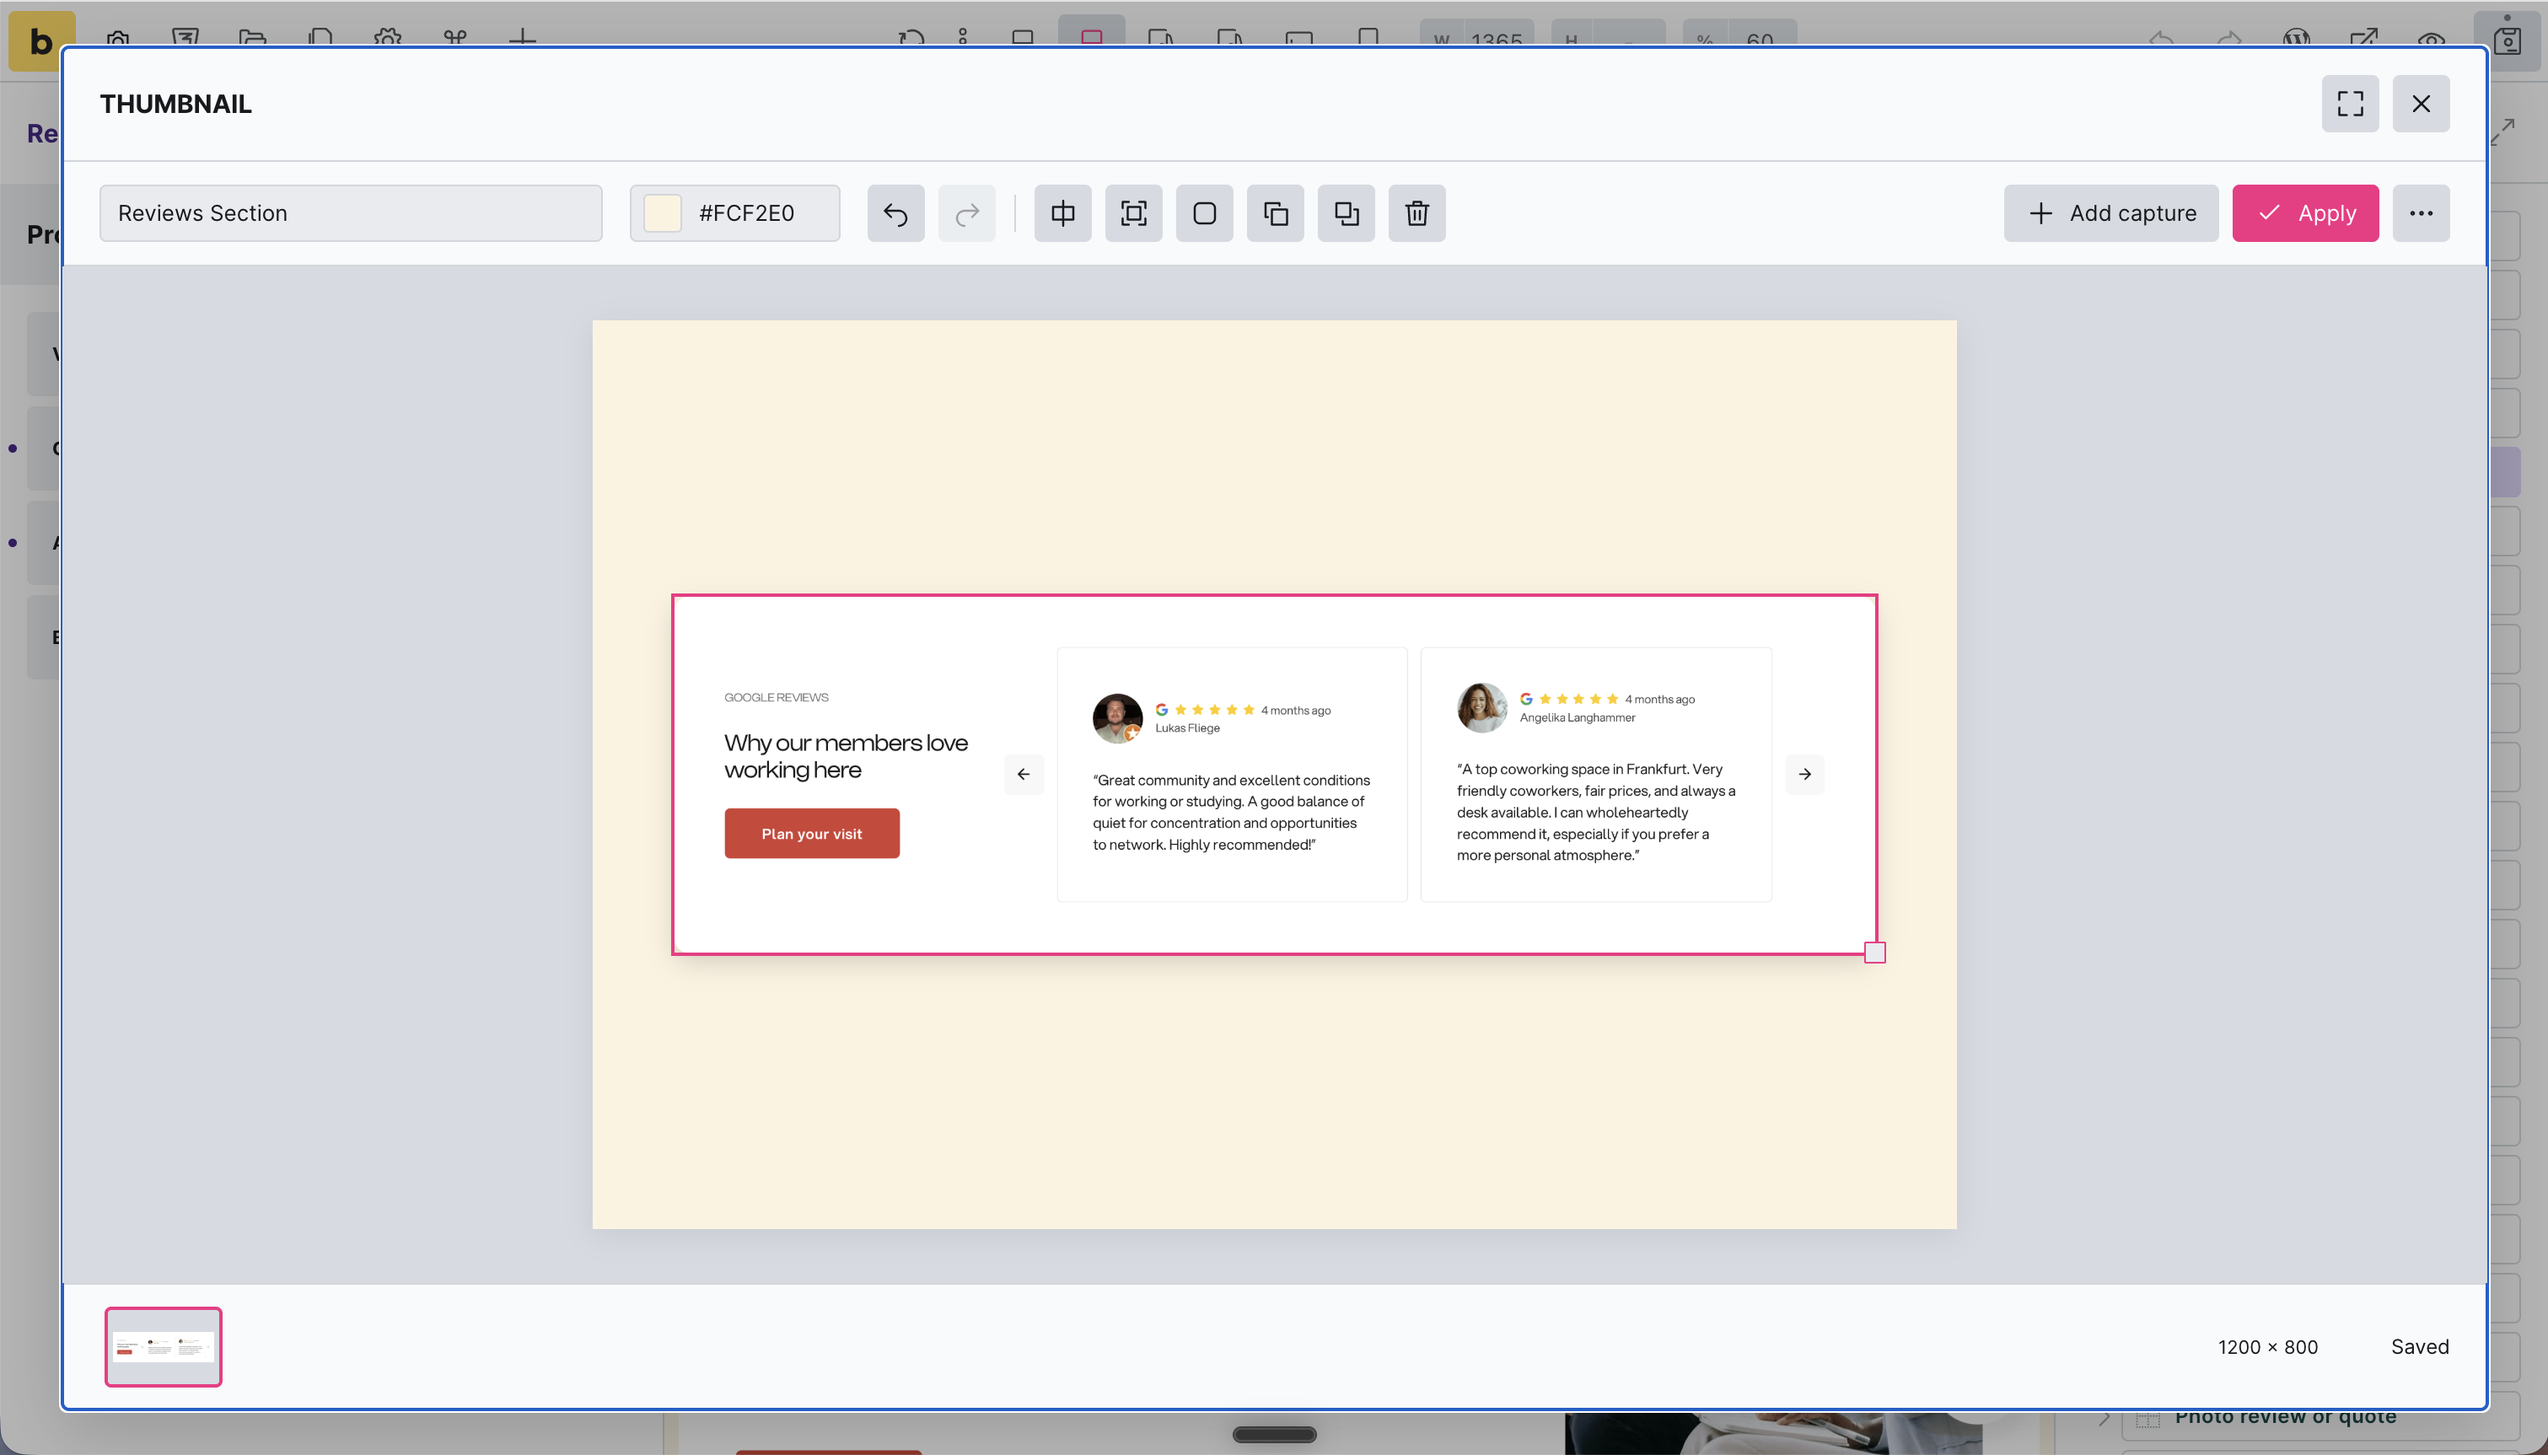
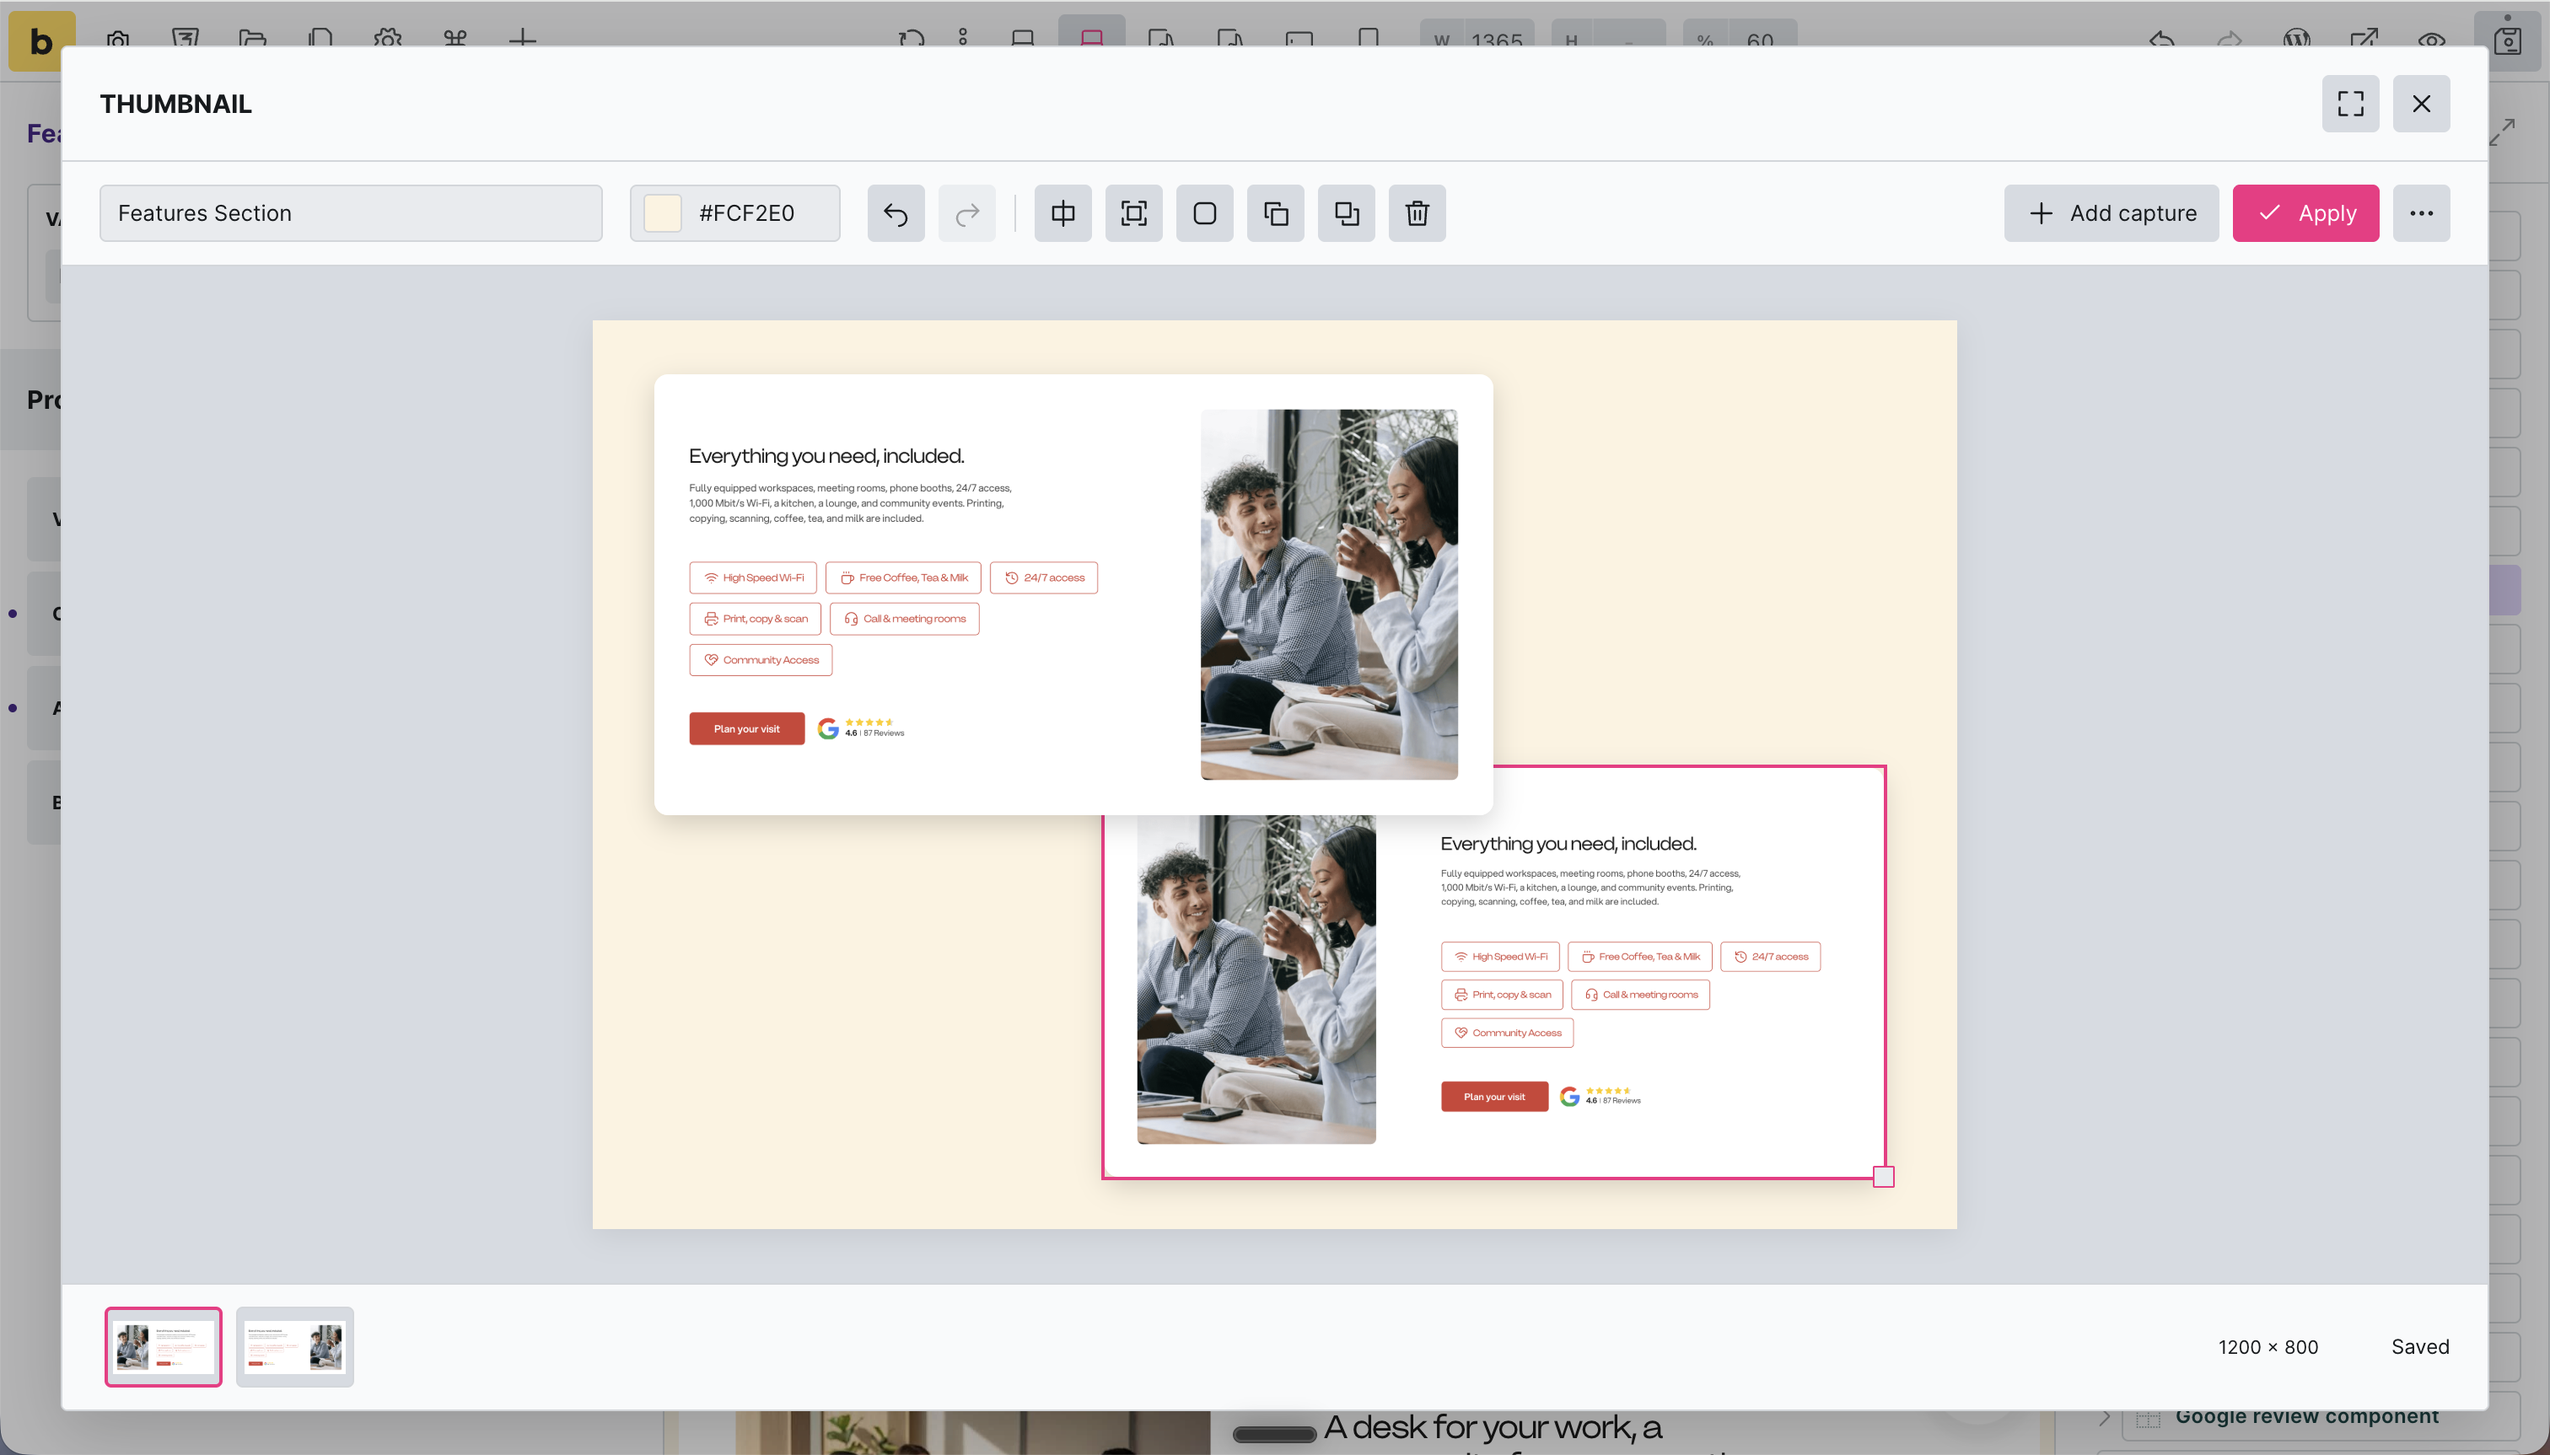
Show multiple component captures in the README editor image

diff --git a/README.md b/README.md
@@ -4,7 +4,7 @@
 
 Capture the component you are editing, arrange one or more views on a canvas, and apply the result to its native thumbnail. Useful for showing visually different variants together in one preview.
 
-![Arrange and resize a captured component in Thumbnail Studio, with an editable background and image styling controls.](docs/images/thumbnail-editor.png)
+![Arrange, resize, and style multiple captured component views on Thumbnail Studio’s canvas.](docs/images/thumbnail-editor.png)
 
 ![Finished custom thumbnails displayed in the Bricks component library, including previews showing multiple variants.](docs/images/component-library.jpg)
 
